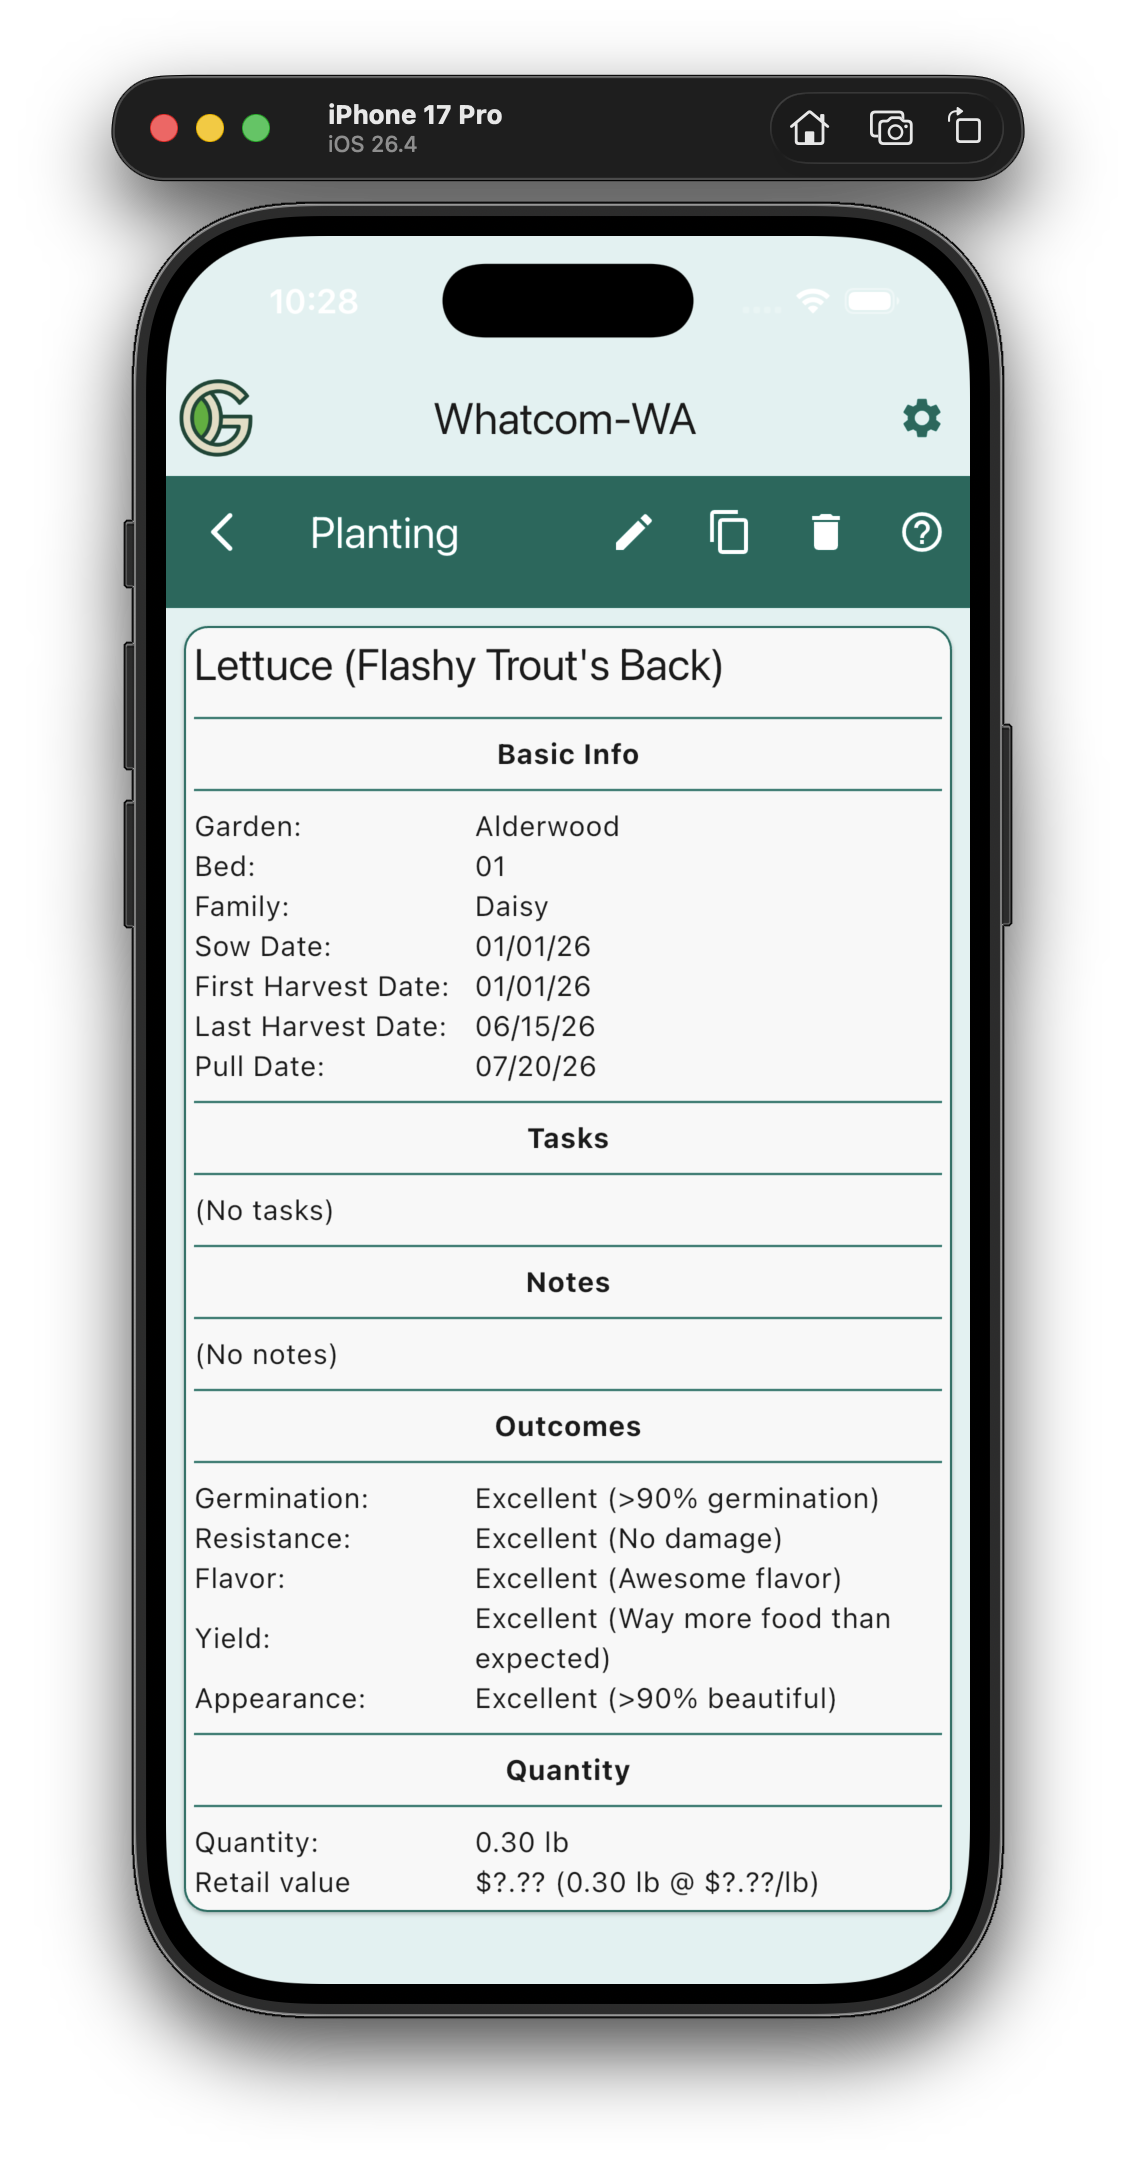
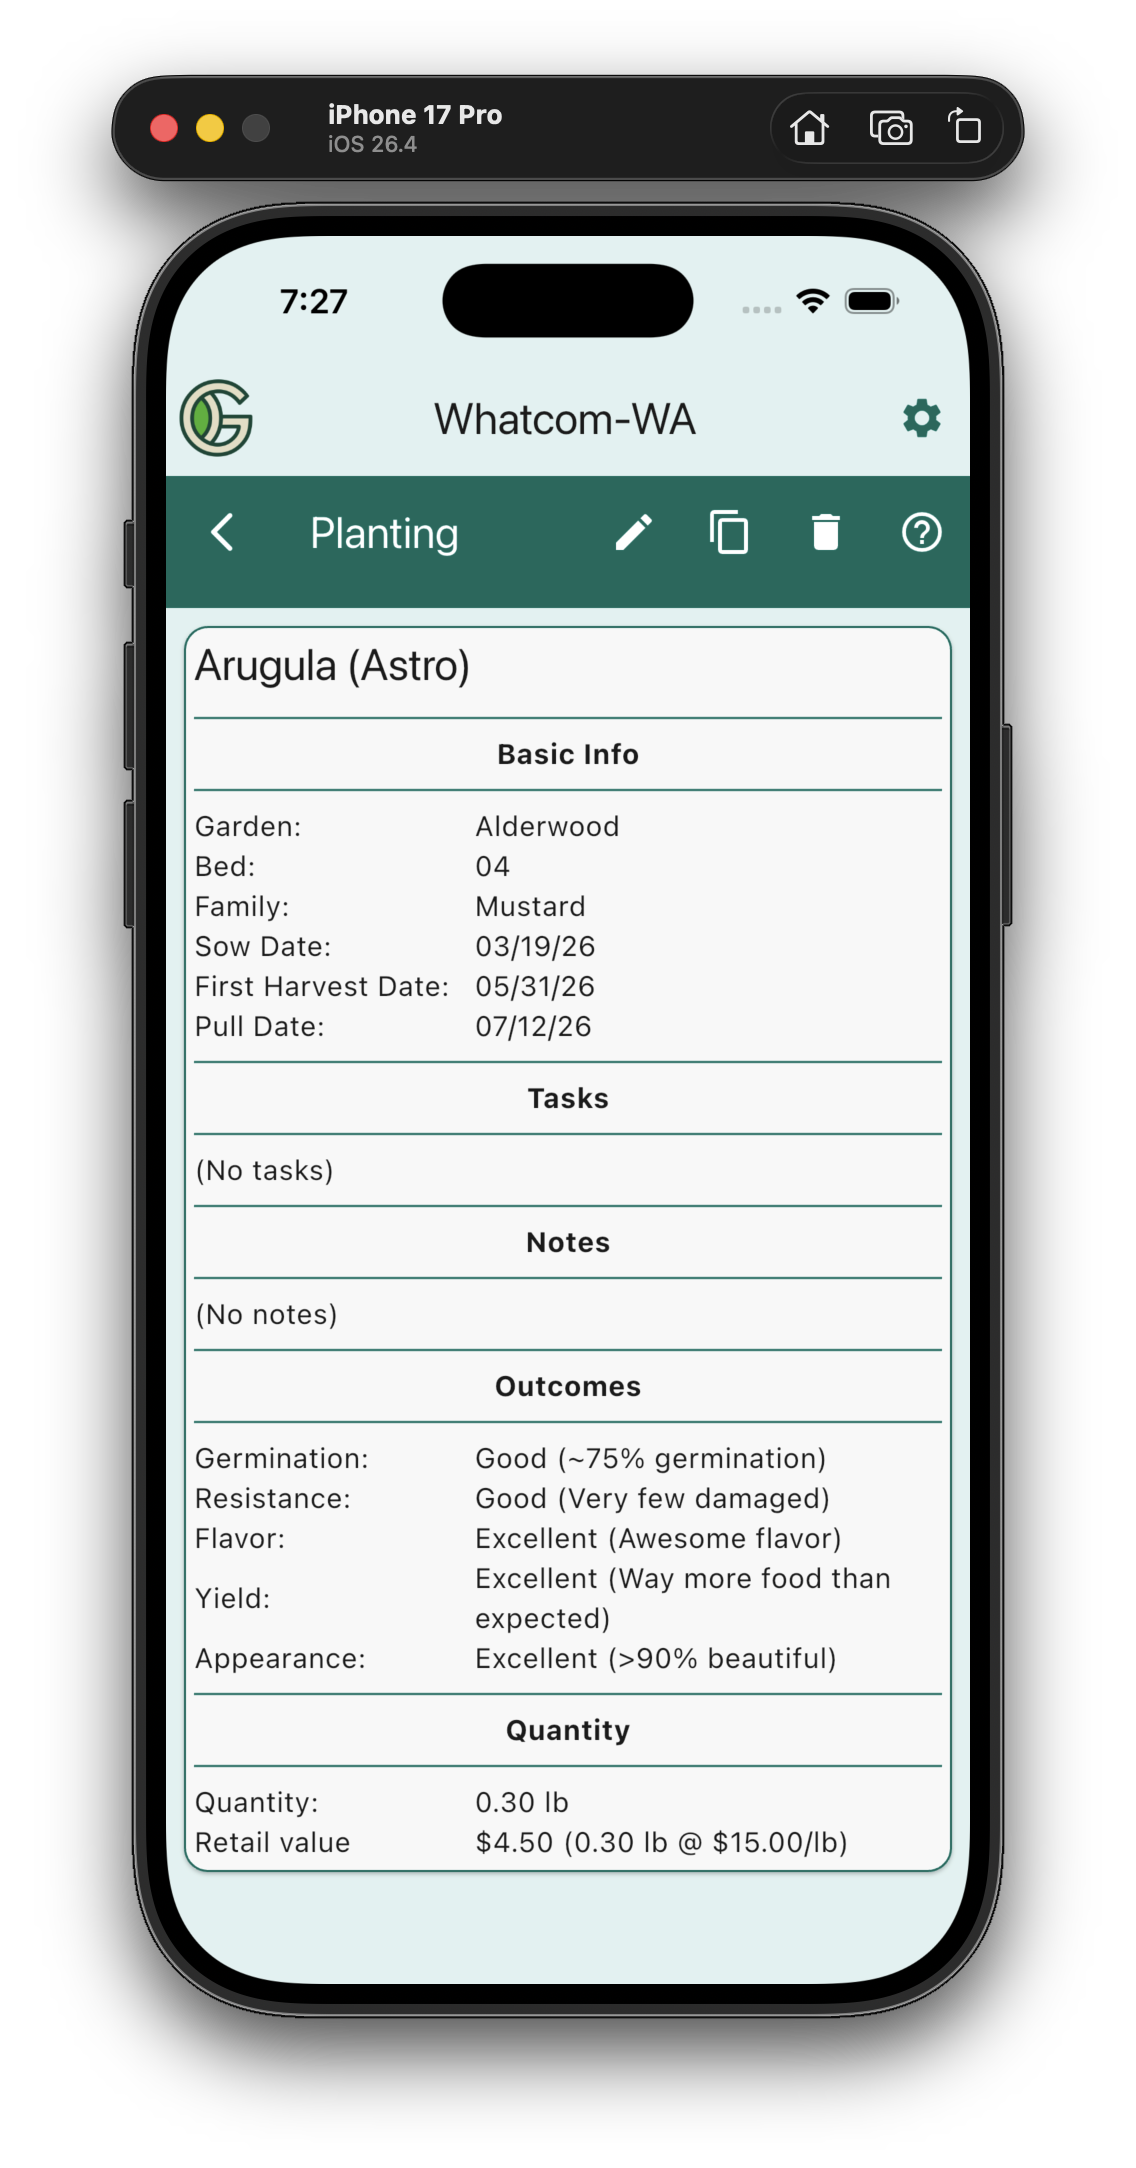
checkpoint
Took 23 minutes

diff --git a/sidebars.js b/sidebars.js
@@ -381,7 +381,9 @@ const sidebars = {
             label: 'Manage Plantings',
             items: [
               'admin-guide/feature-management/plantings',
-              'admin-guide/feature-management/planting-details',
+              'admin-guide/feature-management/plantings/planting-details',
+              'admin-guide/feature-management/plantings/edit-basic-info',
+              'admin-guide/feature-management/plantings/copy-planting',
             ]
           },
           {

diff --git a/docs/admin-guide/feature-management/plantings/planting-details.md b/docs/admin-guide/feature-management/plantings/planting-details.md
@@ -1,0 +1,14 @@
+---
+hide_table_of_contents: true
+title: Planting Details
+---
+
+# Planting Details
+
+<img width="300" src="/img/admin-guide/feature-management/plantings/details.png"/>
+
+The Planting Details page shows you all the details of a planting, including the crop, variety, planting date, and more.
+
+You can edit the planting's basic info by clicking the **Pencil** icon in the title bar.
+
+You can copy the planting by clicking the **Copy** icon in the title bar. This will create a new planting with the same details as the current planting.

diff --git a/docs/admin-guide/feature-management/plantings/edit-basic-info.md b/docs/admin-guide/feature-management/plantings/edit-basic-info.md
@@ -1,0 +1,11 @@
+---
+hide_table_of_contents: true
+title: Edit Planting Basic Info
+---
+
+# Edit Planting Basic Info
+
+<img width="300" src="/img/admin-guide/feature-management/plantings/edit-basic-info.png"/>
+
+The Edit Planting Basic Info page allows you to edit the basic information of a planting.
+You can change its bed, crop, variety, and dates. You can also create a new crop or variety by clicking the **+** button next to the respective dropdowns.

diff --git a/docs/admin-guide/feature-management/plantings/copy-planting.md b/docs/admin-guide/feature-management/plantings/copy-planting.md
@@ -1,0 +1,10 @@
+---
+hide_table_of_contents: true
+title: Copy Planting
+---
+
+# Copy Planting
+
+<img width="300" src="/img/admin-guide/feature-management/plantings/copy-planting.png"/>
+
+The Copy Planting screen provides a form that is pre-filled with the Crop, Variety, and dates associated with the original Planting. However, the dates are updated to the current year (if necessary).

diff --git a/docs/admin-guide/feature-management/plantings.md b/docs/admin-guide/feature-management/plantings.md
@@ -6,3 +6,11 @@ title: Manage Plantings
 # Manage Plantings
 
 <img width="300" src="/img/admin-guide/feature-management/plantings/manage.png"/>
+
+The Manage Plantings page allows you to manage all the plantings in GGC.
+
+You can use the crop and variety dropdowns to filter the plantings by crop and variety.
+
+<img width="300" src="/img/admin-guide/feature-management/plantings/manage-filtered.png"/>
+
+Clicking on the "Details" button will take you to the [Planting Details page](plantings/planting-details).